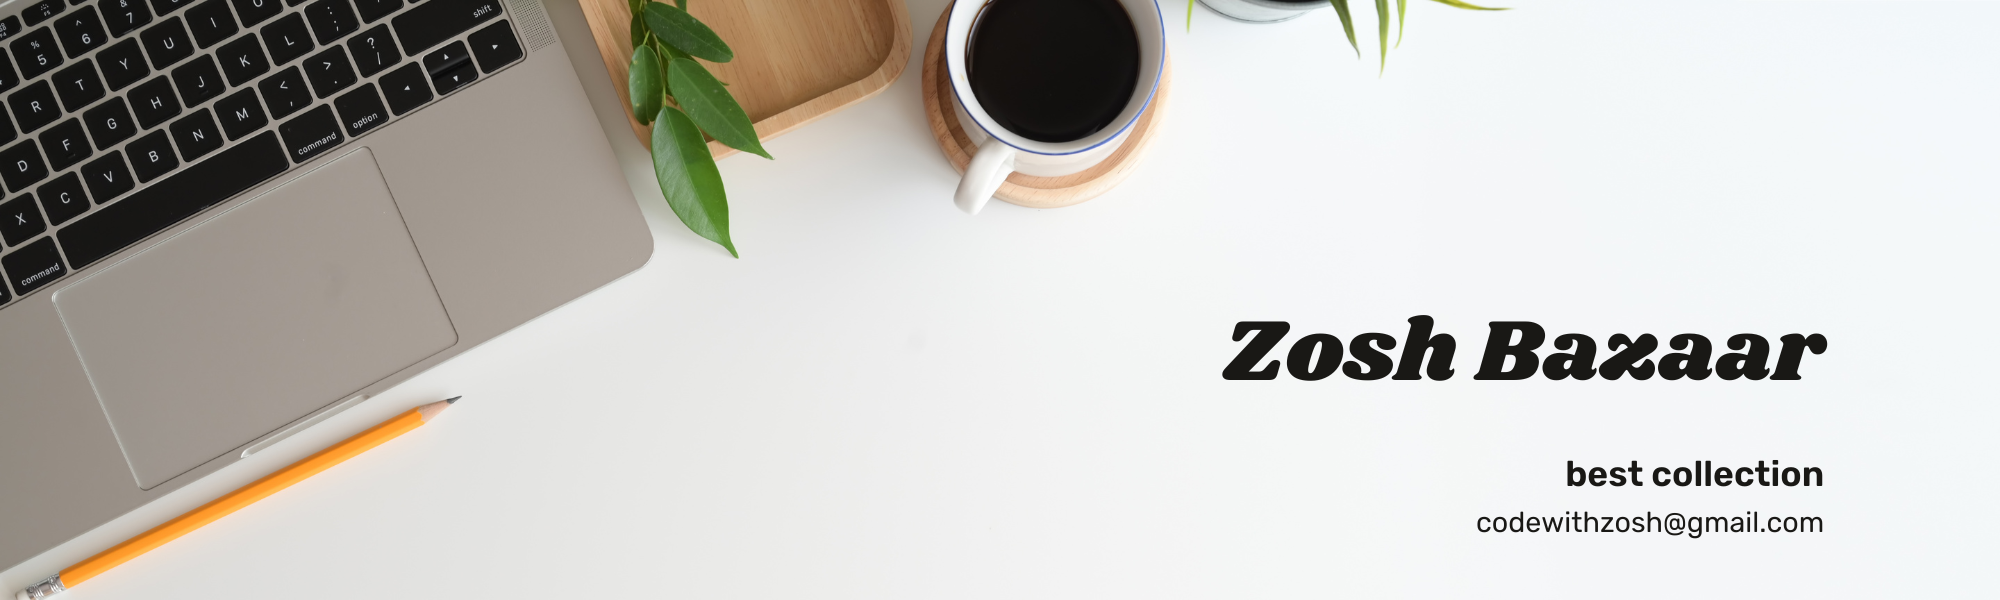
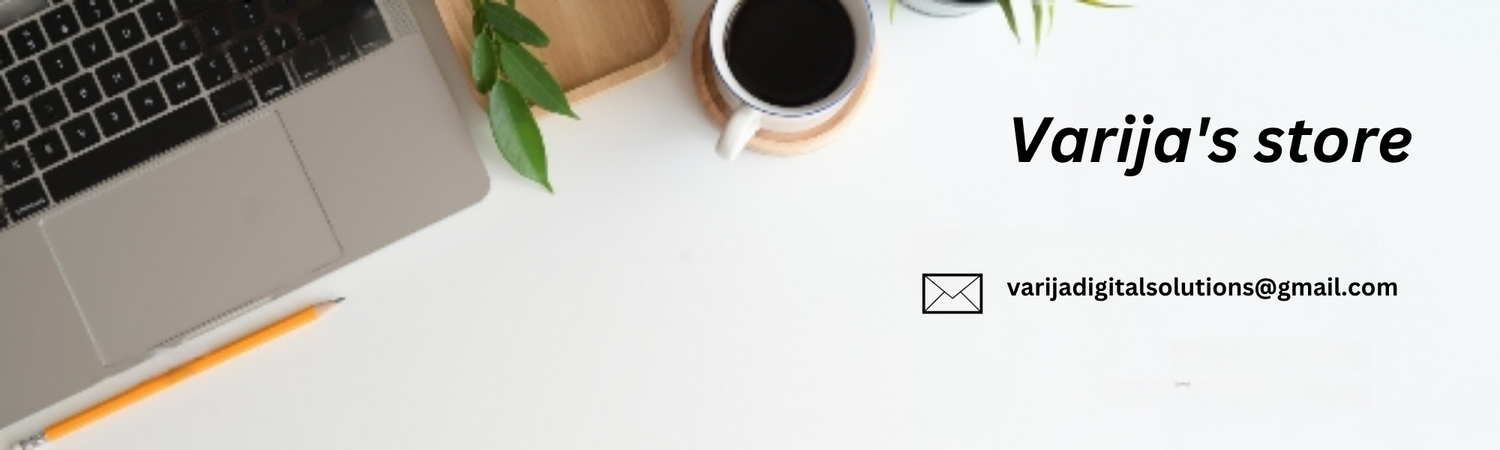
modified frontend

diff --git a/src/customer/pages/ChatBot/ChatBot.tsx b/src/customer/pages/ChatBot/ChatBot.tsx
@@ -42,7 +42,7 @@ const ChatBot = ({handleClose,productId}:ChatBotProps) => {
             <div className="w-full lg:w-[40vw] h-[82vh] shadow-2xl bg-white z-50 rounded-lg">
                 <div className=" h-[12%] flex justify-between items-center px-5 bg-slate-100 rounded-t-lg">
                     <div className="flex items-center gap-3 ">
-                        <h1 className="logo">Zosh Bazzar</h1>
+                        <h1 className="logo">Varija's store</h1>
                         <p>Assitant</p>
                     </div>
                    {/* {productId && <div className="flex items-center gap-3">
@@ -63,7 +63,7 @@ const ChatBot = ({handleClose,productId}:ChatBotProps) => {
 
                 <div className="h-[78%] p-5 flex flex-col py-5 px-5 overflow-y-auto  custom-scrollbar">
 
-                    <p>welcome to zosh bazzar Ai Assistant, you can
+                    <p>welcome to Varija's store Ai Assistant, you can
                       {productId?` Query About this Product : ${productId}`:"   Query about your cart, and order history here"}
                     </p>
                     { aiChatBot.messages.map((item:any, index:number) =>

diff --git a/src/customer/components/Footer/Footer.tsx b/src/customer/components/Footer/Footer.tsx
@@ -7,9 +7,9 @@ const Footer = () => {
         <div className="container mx-auto px-4">
           <div className="flex flex-wrap justify-between items-center">
             <div className="text-center md:text-left">
-              <h5 className="text-lg font-semibold">Zosh Bazzar</h5>
+              <h5 className="text-lg font-semibold">Varija's store</h5>
               <p className="text-sm mt-2">
-                © {new Date().getFullYear()} Zosh Bazzar. All rights reserved.
+                © {new Date().getFullYear()} varija's store. All rights reserved.
               </p>
             </div>
             <div className="text-center mt-4 md:mt-0">

diff --git a/src/customer/pages/Home/Home.tsx b/src/customer/pages/Home/Home.tsx
@@ -52,7 +52,7 @@ const Home = () => {
                     <h1 className=''>
                         Sell Your Product
                     </h1>
-                    <p className='text-lg md:text-2xl'>With <strong className='logo text-3xl md:text-5xl pl-2'>zosh bazzar</strong></p>
+                    <p className='text-lg md:text-2xl'>With <strong className='logo text-3xl md:text-5xl pl-2'>Varija's store</strong></p>
 
                     <div className='pt-6 flex justify-center'>
                         <Button

diff --git a/src/customer/pages/BecomeSeller/BecomeSeller.tsx b/src/customer/pages/BecomeSeller/BecomeSeller.tsx
@@ -58,7 +58,7 @@ const BecomeSeller = () => {
 
           <img className="" src={"/seller.jpg"} alt="" />
           {/* <div>
-                <p className=" logo absolute p-6 rounded-t-full text-white text-center top-0 left-16 right-11 bg-teal-500">Zosh Bazaar</p>
+                <p className=" logo absolute p-6 rounded-t-full text-white text-center top-0 left-16 right-11 bg-teal-500">Varija's store</p>
             </div> */}
 
         </div>

diff --git a/src/admin seller/components/navbar/Navbar.tsx b/src/admin seller/components/navbar/Navbar.tsx
@@ -19,7 +19,7 @@ const Navbar = ({DrawerList}:any) => {
           <MenuIcon color='primary' />
         </IconButton>
 
-        <h1 onClick={() => navigate("/")} className='logo text-xl cursor-pointer'>Zosh Bazzar</h1>
+        <h1 onClick={() => navigate("/")} className='logo text-xl cursor-pointer'>Varija's store</h1>
       </div>
 
       <Drawer open={open} onClose={toggleDrawer(false)}>

diff --git a/src/customer/components/Navbar/DrawerList.tsx b/src/customer/components/Navbar/DrawerList.tsx
@@ -15,7 +15,7 @@ const DrawerList = ({toggleDrawer}:any) => {
       <ListItem>
         <ListItemButton>
 
-          <ListItemText primary={<h1 className='logo text-2xl text-[#00927c]'>Zosh Bazzar</h1>} />
+          <ListItemText primary={<h1 className='logo text-2xl text-[#00927c]'>varija's store</h1>} />
         </ListItemButton>
       </ListItem>
       <Divider />

diff --git a/src/customer/components/Navbar/Navbar.tsx b/src/customer/components/Navbar/Navbar.tsx
@@ -69,7 +69,7 @@ const Navbar = () => {
               onClick={() => navigate("/")}
               className="logo cursor-pointer text-lg md:text-2xl  text-[#00927c]"
             >
-              Zosh Bazaar
+              Varija's store
             </h1>
           </div>
 

diff --git a/src/Config/Api.ts b/src/Config/Api.ts
@@ -1,6 +1,6 @@
 import axios from 'axios';
 
-export const API_URL = "https://ecommercebackend-z7gb.onrender.com";
+export const API_URL = "http://localhost:5454";
 export const DEPLOYED_URL = "https://ecommercebackend-z7gb.onrender.com"
 // change api
 

diff --git a/public/index.html b/public/index.html
@@ -28,7 +28,7 @@
     />
 
     <!-- Title -->
-    <title>Zosh Bazzar</title>
+    <title>Varija's store</title>
   </head>
   <body>
     <noscript>You need to enable JavaScript to run this app.</noscript>
